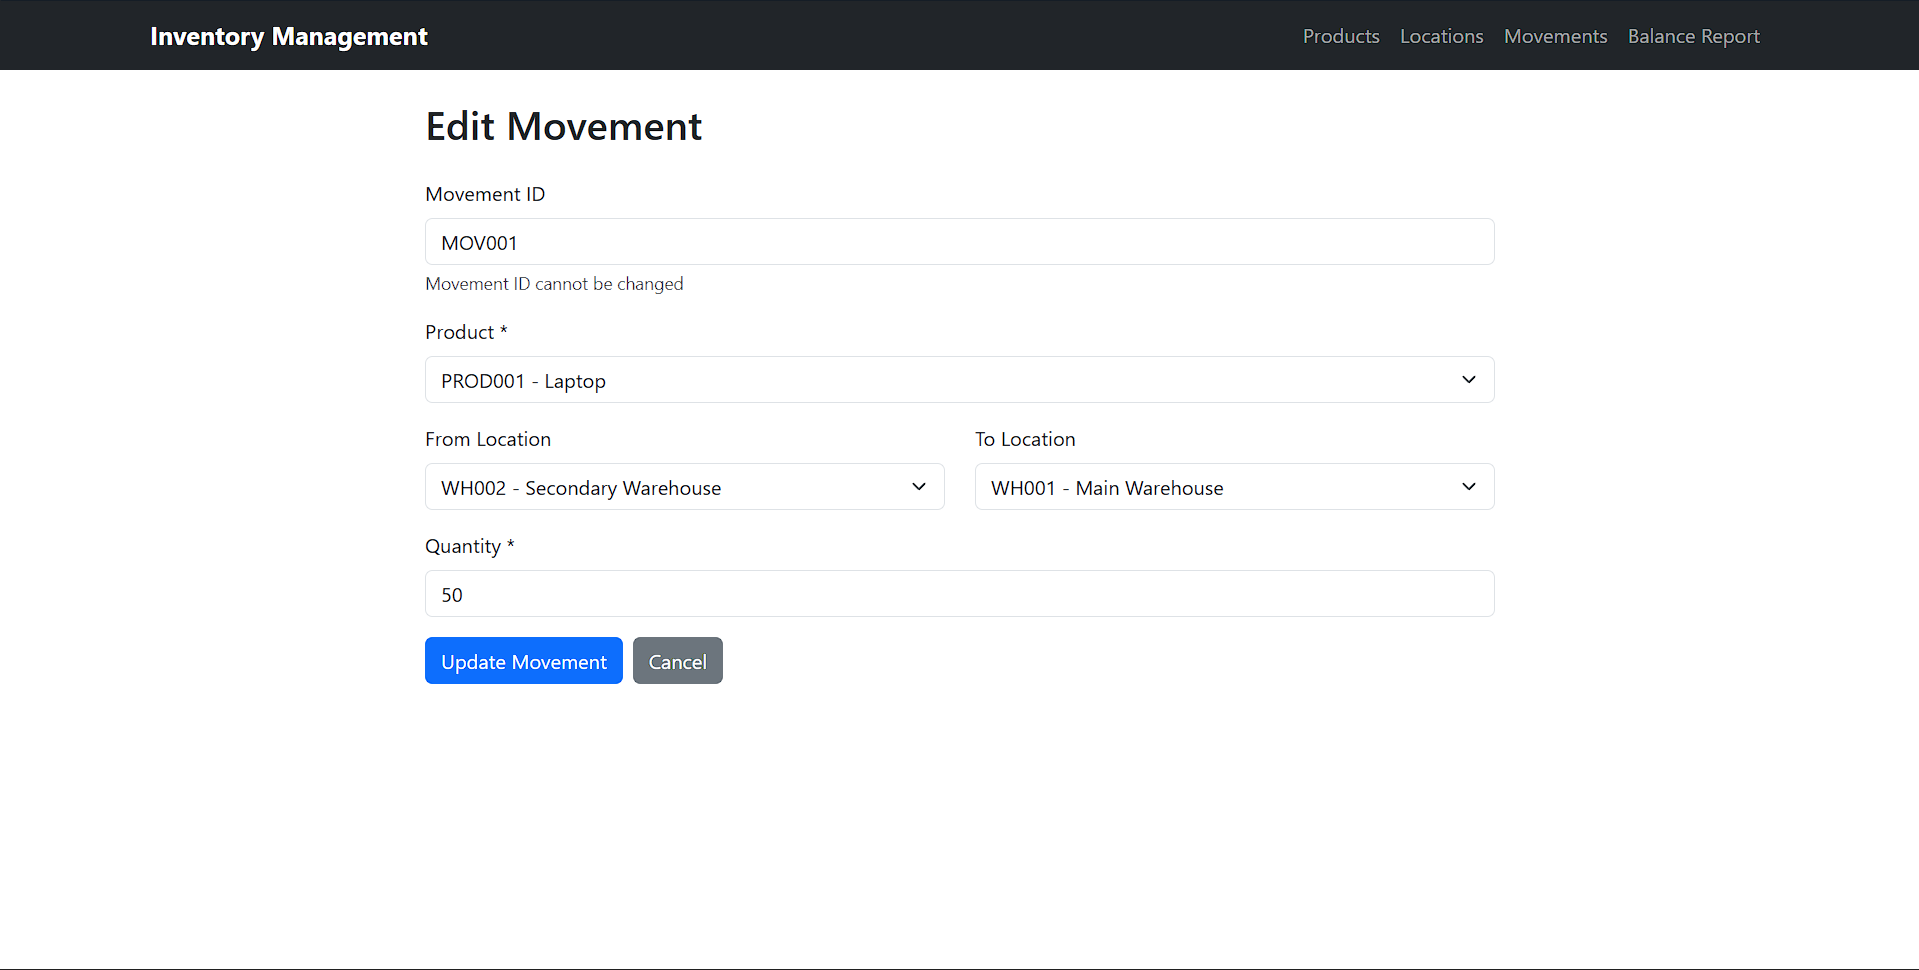
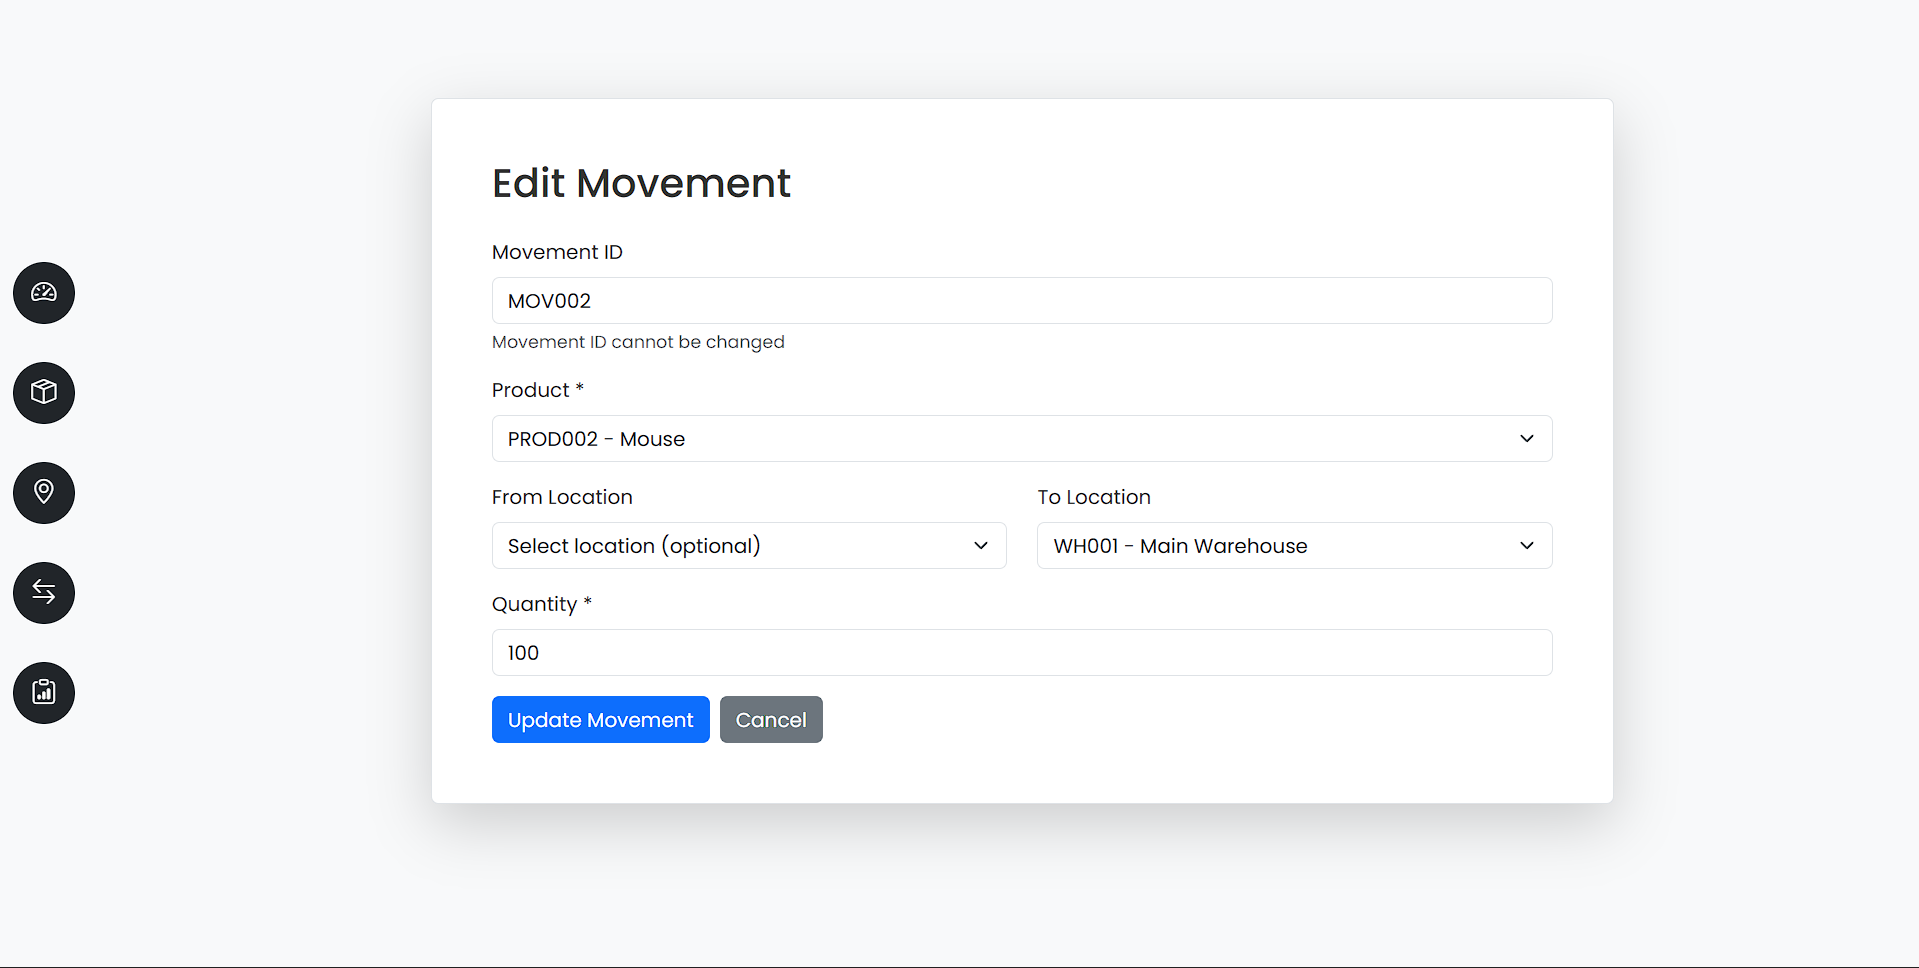
Changes in uI

diff --git a/templates/add_location.html b/templates/add_location.html
@@ -2,7 +2,7 @@
 {% block title %}Add Location - Inventory Management{% endblock %}
 {% block content %}
 <div class="row justify-content-center">
-    <div class="col-md-6">
+    <div class="col-md-6 border p-5 bg-white shadow-lg rounded">
         <h2>Add New Location</h2>
         
         <form method="POST">

diff --git a/templates/add_product.html b/templates/add_product.html
@@ -2,7 +2,7 @@
 {% block title %}Add Product - Inventory Management{% endblock %}
 {% block content %}
 <div class="row justify-content-center">
-    <div class="col-md-6">
+    <div class="col-md-6 border p-5 bg-white shadow-lg rounded">
         <h2>Add New Product</h2>
         
         <form method="POST">

diff --git a/templates/edit_location.html b/templates/edit_location.html
@@ -2,7 +2,7 @@
 {% block title %}Edit Location - Inventory Management{% endblock %}
 {% block content %}
 <div class="row justify-content-center">
-    <div class="col-md-6">
+    <div class="col-md-6 border p-5 bg-white shadow-lg rounded">
         <h2>Edit Location</h2>
         
         <form method="POST">

diff --git a/templates/edit_movement.html b/templates/edit_movement.html
@@ -2,7 +2,7 @@
 {% block title %}Edit Movement - Inventory Management{% endblock %}
 {% block content %}
 <div class="row justify-content-center">
-    <div class="col-md-8">
+    <div class="col-md-8 border p-5 bg-white shadow-lg rounded">
         <h2>Edit Movement</h2>
         
         <form method="POST">

diff --git a/templates/edit_product.html b/templates/edit_product.html
@@ -2,7 +2,7 @@
 {% block title %}Edit Product - Inventory Management{% endblock %}
 {% block content %}
 <div class="row justify-content-center">
-    <div class="col-md-6">
+    <div class="col-md-6 border p-5 bg-white shadow-lg rounded">
         <h2>Edit Product</h2>
         
         <form method="POST">

diff --git a/templates/add_movement.html b/templates/add_movement.html
@@ -2,7 +2,7 @@
 {% block title %}Add Movement - Inventory Management{% endblock %}
 {% block content %}
 <div class="row justify-content-center">
-    <div class="col-md-8">
+    <div class="col-md-8 border p-5 bg-white shadow-lg rounded">
         <h2>Add New Movement</h2>
     
         

diff --git a/README.md b/README.md
@@ -27,7 +27,7 @@ A web-based inventory management system built with Flask that helps track produc
 - **Balance Report**
   - View current stock levels across all locations
   - Filter and search functionality
-  ![Balance Report](screenshots/balancereport.png)
+  ![Balance Report](screenshots/balancereports.png)
 
 ## Technology Stack
 
@@ -82,7 +82,7 @@ The application uses SQLite with the following tables:
 ![View Locations](screenshots/addlocation.png)
 
 ### Edit Locations
-![View Locations](screenshots/editllocation.png)
+![View Locations](screenshots/editlocation.png)
 
 ### Add Movements
 ![View Movements](screenshots/addmovement.png)
